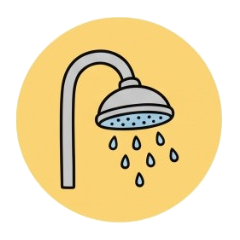
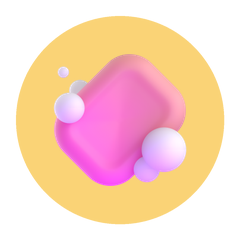
fix: resolve theme stickers and replace showerhead with soap across all daily skills

diff --git a/src/components/icons/JournalStickers.tsx b/src/components/icons/JournalStickers.tsx
@@ -1642,6 +1642,7 @@ export const SPACE_STICKER_SWAPS: Record<string, string> = {
   '/assets/stickers/bathtub_wash.png': '/assets/stickers/space_shower_wash.png',
   '/assets/stickers/bath_time.png': '/assets/stickers/space_shower_wash.png',
   '/assets/stickers/fav_bath.png': '/assets/stickers/space_shower_wash.png',
+  '/assets/stickers/soap_wash_hands.png': '/assets/stickers/space_soap_wash_hands.png',
   '/assets/stickers/bedtime_sleep.png': '/assets/stickers/space_bedtime_sleep.png',
   '/assets/stickers/pajamas_sleep.png': '/assets/stickers/space_bedtime_sleep.png',
   '/assets/stickers/pajamas_shorts.png': '/assets/stickers/space_bedtime_sleep.png',
@@ -2011,6 +2012,7 @@ export const OCEAN_STICKER_SWAPS: Record<string, string> = {
   '/assets/stickers/bathtub_wash.png': '/assets/stickers/ocean_shell_shower.png',
   '/assets/stickers/bath_time.png': '/assets/stickers/ocean_shell_shower.png',
   '/assets/stickers/fav_bath.png': '/assets/stickers/ocean_shell_shower.png',
+  '/assets/stickers/soap_wash_hands.png': '/assets/stickers/ocean_soap_wash_hands.png',
 
   '/assets/stickers/apple_snack.png': '/assets/stickers/ocean_watermelon_kelp_snack.png',
 
@@ -2230,6 +2232,7 @@ export const FAIRYTALE_STICKER_SWAPS: Record<string, string> = {
   '/assets/stickers/bathtub_wash.png': '/assets/stickers/fairytale_clawfoot_bath.png',
   '/assets/stickers/bath_time.png': '/assets/stickers/fairytale_clawfoot_bath.png',
   '/assets/stickers/fav_bath.png': '/assets/stickers/fairytale_clawfoot_bath.png',
+  '/assets/stickers/soap_wash_hands.png': '/assets/stickers/fairytale_soap_wash_hands.png',
 
   '/assets/stickers/apple_snack.png': '/assets/stickers/fairytale_golden_apple.png',
 
@@ -2458,7 +2461,7 @@ export const RACING_STICKER_SWAPS: Record<string, string> = {
   '/assets/stickers/sneaker_shoes.png': '/assets/stickers/racing_sneaker_shoes.png',
 
   '/assets/stickers/routine_toilet_restroom.png': '/assets/stickers/racing_toilet_restroom.png',
-  '/assets/stickers/soap_wash_hands.png': '/assets/stickers/racing_toilet_restroom.png',
+  '/assets/stickers/soap_wash_hands.png': '/assets/stickers/racing_station_soap.png',
 
   '/assets/stickers/routine_medicine_pill.png': '/assets/stickers/racing_routine_medicine_pill.png',
   '/assets/stickers/medications_health.png': '/assets/stickers/racing_routine_medicine_pill.png',

diff --git a/src/components/SkillsView.tsx b/src/components/SkillsView.tsx
@@ -10,7 +10,8 @@ import {
   RotateCcw,
   Play,
   Pause,
-  Layers
+  Layers,
+  Trophy
 } from 'lucide-react';
 import { playChime } from '../utils/audio';
 import { t } from '../services/translator';
@@ -138,7 +139,7 @@ export const SkillsView: React.FC = () => {
         {/* All Steps Completed Celebration Box */}
         {isAllDone && (
           <div className={`${activeTheme?.palette?.primaryLight || 'bg-amber-100'} border-3 ${activeTheme?.palette?.primaryBorder || 'border-amber-300'} rounded-3xl p-5 text-center shadow-md animate-in fade-in zoom-in-95`}>
-            <span className="text-5xl">🏆</span>
+            <Trophy className="w-14 h-14 text-amber-500 fill-amber-400 mx-auto drop-shadow-md" />
             <h3 className={`text-xl font-black ${activeTheme?.palette?.textAccent || 'text-amber-950'} mt-2`}>{t('Mission Accomplished!')}</h3>
             <p className={`text-xs sm:text-sm font-bold ${activeTheme?.palette?.textAccent || 'text-amber-800'} mt-1`}>
               {t('You completed')} "{t(selectedSkill.title)}" {t('independently!')}
@@ -309,8 +310,15 @@ export const SkillsView: React.FC = () => {
                   </p>
 
                   <div className="mt-3 flex items-center justify-between text-xs font-bold">
-                    <span className={isDone ? 'text-emerald-600 font-black' : 'text-slate-400'}>
-                      {isDone ? t('Completed! 🏆') : `${completedCount}/${totalCount} ${t('steps done')}`}
+                    <span className={isDone ? 'text-emerald-600 font-black inline-flex items-center gap-1' : 'text-slate-400'}>
+                      {isDone ? (
+                        <>
+                          <span>{t('Completed!')}</span>
+                          <Trophy className="w-3.5 h-3.5 text-amber-500 fill-amber-400 shrink-0 inline-block" />
+                        </>
+                      ) : (
+                        `${completedCount}/${totalCount} ${t('steps done')}`
+                      )}
                     </span>
                     {skill.completedTimes > 0 && (
                       <span className={subtextClass}>{t('Finished')} {skill.completedTimes}x</span>

diff --git a/src/components/caregiver/CaregiverSkillsTab.tsx b/src/components/caregiver/CaregiverSkillsTab.tsx
@@ -2,6 +2,7 @@ import React from 'react';
 import { t } from '../../services/translator';
 import { useApp } from '../../context/AppContext';
 import { Lightbulb } from 'lucide-react';
+import { RoutineStickerIcon } from '../icons/JournalStickers';
 
 interface CaregiverSkillsTabProps {
   onStartTour?: () => void;
@@ -44,15 +45,13 @@ export const CaregiverSkillsTab: React.FC<CaregiverSkillsTabProps> = ({ onStartT
         {skills.map((sk, i) => (
           <div key={sk.id} className="p-4 bg-white border-2 border-slate-200 rounded-2xl flex items-center justify-between">
             <div className="flex items-center gap-3">
-              {(sk.stickerSrc || getSkillSticker(sk.id, sk.emoji)) ? (
-                <img
-                  src={sk.stickerSrc || getSkillSticker(sk.id, sk.emoji)}
-                  alt=""
-                  className="w-10 h-10 object-contain drop-shadow-2xs shrink-0"
+              <div className="w-12 h-12 rounded-xl bg-slate-50 border border-slate-200 flex items-center justify-center p-1 shrink-0">
+                <RoutineStickerIcon
+                  emoji={sk.stickerSrc || getSkillSticker(sk.id, sk.emoji) || sk.emoji}
+                  title={sk.title}
+                  className="w-10 h-10 object-contain drop-shadow-2xs"
                 />
-              ) : (
-                <span className="text-3xl">{sk.emoji}</span>
-              )}
+              </div>
               <div>
                 <h4 className="font-black text-slate-800">{sk.title}</h4>
                 <span data-tour={i === 0 ? "skills-reward-badge" : undefined} className="text-xs text-purple-700 font-bold">
